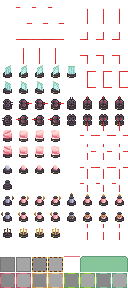
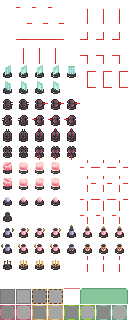
Render power light on enabled emitters, even when the simulation is not running

diff --git a/beam_time/src/assets.rs b/beam_time/src/assets.rs
@@ -74,7 +74,7 @@ define_refs! {
 
 pub fn animated_sprite(texture: SpriteRef, active: bool, frame: u8) -> Sprite {
     let offset = if active { frame + 1 } else { 0 } * 16;
-    Sprite::new(texture).uv_offset(Vector2::new(offset as u32, 0))
+    Sprite::new(texture).uv_offset(Vector2::new(offset as i32, 0))
 }
 
 pub fn init(assets: &mut AssetConstructor) {
@@ -93,31 +93,31 @@ pub fn init(assets: &mut AssetConstructor) {
     assets.register_sprite(interface, ABOUT_BUTTON, (40, 48), (31, 14));
 
     let tiles = assets.register_atlas(include_atlas!("tilemap.png"));
-    assets.register_sprite(tiles, TILE_PICKER_BACKGROUND_LEFT, (80, 256), (16, 16));
-    assets.register_sprite(tiles, TILE_PICKER_BACKGROUND_CENTER, (96, 256), (16, 16));
-    assets.register_sprite(tiles, TILE_PICKER_BACKGROUND_RIGHT, (112, 256), (16, 16));
+    assets.register_sprite(tiles, TILE_PICKER_BACKGROUND_LEFT, (80, 288), (16, 16));
+    assets.register_sprite(tiles, TILE_PICKER_BACKGROUND_CENTER, (96, 288), (16, 16));
+    assets.register_sprite(tiles, TILE_PICKER_BACKGROUND_RIGHT, (112, 288), (16, 16));
 
-    assets.register_sprite(tiles, EMPTY_TILE_A, (0, 256), (16, 16));
-    assets.register_sprite(tiles, EMPTY_TILE_B, (16, 256), (16, 16));
-    assets.register_sprite(tiles, PERMANENT_TILE_A, (32, 256), (16, 16));
-    assets.register_sprite(tiles, PERMANENT_TILE_B, (48, 256), (16, 16));
-    assets.register_sprite(tiles, OVERLAY_SELECTION, (64, 256), (16, 16));
+    assets.register_sprite(tiles, EMPTY_TILE_A, (0, 288), (16, 16));
+    assets.register_sprite(tiles, EMPTY_TILE_B, (16, 288), (16, 16));
+    assets.register_sprite(tiles, PERMANENT_TILE_A, (32, 288), (16, 16));
+    assets.register_sprite(tiles, PERMANENT_TILE_B, (48, 288), (16, 16));
+    assets.register_sprite(tiles, OVERLAY_SELECTION, (64, 288), (16, 16));
 
-    assets.register_sprite(tiles, TILE_WALL, (0, 176), (16, 16));
-    assets.register_sprite(tiles, TILE_DETECTOR, (0, 160), (16, 16));
-    assets.register_sprite(tiles, TILE_DELAY, (0, 224), (16, 16));
+    assets.register_sprite(tiles, TILE_WALL, (0, 208), (16, 16));
+    assets.register_sprite(tiles, TILE_DETECTOR, (0, 192), (16, 16));
+    assets.register_sprite(tiles, TILE_DELAY, (0, 256), (16, 16));
     assets.register_sprite(tiles, TILE_MIRROR_A, (0, 64), (16, 16));
     assets.register_sprite(tiles, TILE_MIRROR_B, (0, 80), (16, 16));
-    assets.register_sprite(tiles, TILE_SPLITTER_A, (0, 128), (16, 16));
-    assets.register_sprite(tiles, TILE_SPLITTER_B, (0, 144), (16, 16));
-    assets.register_sprite(tiles, TILE_GALVO_UP, (64, 192), (16, 16));
-    assets.register_sprite(tiles, TILE_GALVO_RIGHT, (0, 192), (16, 16));
-    assets.register_sprite(tiles, TILE_GALVO_DOWN, (64, 208), (16, 16));
-    assets.register_sprite(tiles, TILE_GALVO_LEFT, (0, 208), (16, 16));
-    assets.register_sprite(tiles, TILE_EMITTER_UP, (64, 96), (16, 16));
-    assets.register_sprite(tiles, TILE_EMITTER_DOWN, (64, 112), (16, 16));
-    assets.register_sprite(tiles, TILE_EMITTER_LEFT, (0, 112), (16, 16));
-    assets.register_sprite(tiles, TILE_EMITTER_RIGHT, (0, 96), (16, 16));
+    assets.register_sprite(tiles, TILE_SPLITTER_A, (0, 160), (16, 16));
+    assets.register_sprite(tiles, TILE_SPLITTER_B, (0, 176), (16, 16));
+    assets.register_sprite(tiles, TILE_GALVO_UP, (64, 224), (16, 16));
+    assets.register_sprite(tiles, TILE_GALVO_RIGHT, (0, 224), (16, 16));
+    assets.register_sprite(tiles, TILE_GALVO_DOWN, (64, 240), (16, 16));
+    assets.register_sprite(tiles, TILE_GALVO_LEFT, (0, 240), (16, 16));
+    assets.register_sprite(tiles, TILE_EMITTER_UP, (16, 128), (16, 16));
+    assets.register_sprite(tiles, TILE_EMITTER_DOWN, (16, 144), (16, 16));
+    assets.register_sprite(tiles, TILE_EMITTER_LEFT, (16, 112), (16, 16));
+    assets.register_sprite(tiles, TILE_EMITTER_RIGHT, (16, 96), (16, 16));
 
     assets.register_sprite(tiles, BEAM_FULL_HORIZONTAL, (16, 32), (16, 16));
     assets.register_sprite(tiles, BEAM_FULL_VERTICAL, (16, 48), (16, 16));
@@ -125,10 +125,10 @@ pub fn init(assets: &mut AssetConstructor) {
     assets.register_sprite(tiles, BEAM_REFLECT_DOWN_LEFT, (80, 48), (16, 16));
     assets.register_sprite(tiles, BEAM_REFLECT_UP_RIGHT, (80, 80), (16, 16));
     assets.register_sprite(tiles, BEAM_REFLECT_DOWN_RIGHT, (80, 64), (16, 16));
-    assets.register_sprite(tiles, BEAM_SPLIT_UP, (80, 128), (16, 16));
-    assets.register_sprite(tiles, BEAM_SPLIT_RIGHT, (80, 144), (16, 16));
-    assets.register_sprite(tiles, BEAM_SPLIT_DOWN, (80, 160), (16, 16));
-    assets.register_sprite(tiles, BEAM_SPLIT_LEFT, (80, 176), (16, 16));
+    assets.register_sprite(tiles, BEAM_SPLIT_UP, (80, 160), (16, 16));
+    assets.register_sprite(tiles, BEAM_SPLIT_RIGHT, (80, 176), (16, 16));
+    assets.register_sprite(tiles, BEAM_SPLIT_DOWN, (80, 192), (16, 16));
+    assets.register_sprite(tiles, BEAM_SPLIT_LEFT, (80, 208), (16, 16));
     assets.register_sprite(tiles, BEAM_HALF_UP, (80, 0), (16, 16));
     assets.register_sprite(tiles, BEAM_HALF_RIGHT, (16, 0), (16, 16));
     assets.register_sprite(tiles, BEAM_HALF_DOWN, (80, 16), (16, 16));

diff --git a/beam_time/src/game/holding.rs b/beam_time/src/game/holding.rs
@@ -1,5 +1,4 @@
 use engine::{
-    drawable::sprite::Sprite,
     exports::{
         nalgebra::Vector2,
         winit::{event::MouseButton, keyboard::KeyCode},
@@ -41,7 +40,7 @@ impl Holding {
                 }
 
                 ctx.draw(
-                    Sprite::new(tile.asset())
+                    tile.asset()
                         .scale(Vector2::repeat(shared.scale), Anchor::Center)
                         .position(ctx.input.mouse, Anchor::Center)
                         .z_index(layer::TILE_HOLDING),
@@ -62,7 +61,7 @@ impl Holding {
                     }
                 }
 
-                 if ctx.input.key_pressed(KeyCode::KeyH) {
+                if ctx.input.key_pressed(KeyCode::KeyH) {
                     for (pos, tile) in tiles.iter_mut() {
                         *pos = Vector2::new(-pos.x, pos.y);
                         *tile = tile.flip_horizontal();
@@ -73,7 +72,7 @@ impl Holding {
                 for (pos, tile) in tiles.iter() {
                     let render_pos = ctx.input.mouse + tile_size * pos.map(|x| x as f32);
                     ctx.draw(
-                        Sprite::new(tile.asset())
+                        tile.asset()
                             .scale(Vector2::repeat(shared.scale), Anchor::Center)
                             .position(render_pos, Anchor::Center)
                             .z_index(layer::TILE_HOLDING),

diff --git a/beam_time/src/game/tile.rs b/beam_time/src/game/tile.rs
@@ -1,4 +1,4 @@
-use engine::assets::SpriteRef;
+use engine::{drawable::sprite::Sprite, exports::nalgebra::Vector2};
 use serde::{Deserialize, Serialize};
 
 use crate::{
@@ -62,17 +62,22 @@ impl Tile {
         }
     }
 
-    pub fn asset(&self) -> SpriteRef {
-        match self {
+    pub fn asset(&self) -> Sprite {
+        let asset_ref = match self {
             Tile::Empty => unreachable!(),
             Tile::Detector => TILE_DETECTOR,
             Tile::Delay => TILE_DELAY,
-            Tile::Emitter { rotation, .. } => EMITTER[*rotation as usize],
+            Tile::Emitter { rotation, active } => {
+                return Sprite::new(EMITTER[*rotation as usize])
+                    .uv_offset(Vector2::new(-16 * *active as i32, 0));
+            }
             Tile::Mirror { rotation, .. } => MIRROR[*rotation as usize],
             Tile::Splitter { rotation, .. } => SPLITTER[*rotation as usize],
             Tile::Galvo { rotation, .. } => GALVO[*rotation as usize],
             Tile::Wall { .. } => TILE_WALL,
-        }
+        };
+
+        Sprite::new(asset_ref)
     }
 
     pub fn rotate(self) -> Self {

diff --git a/engine/src/assets/mod.rs b/engine/src/assets/mod.rs
@@ -46,10 +46,11 @@ pub struct FontAsset {
 }
 
 impl SpriteAsset {
-    pub(crate) fn uv(&self, offset: Vector2<u32>) -> (Vector2<f32>, Vector2<f32>) {
+    pub(crate) fn uv(&self, offset: Vector2<i32>) -> (Vector2<f32>, Vector2<f32>) {
         let size = self.texture.size.map(|x| x as f32);
 
-        let start = (self.uv + offset).map(|x| x as f32).component_div(&size);
+        let uv = self.uv.map(|x| x as i32);
+        let start = (uv + offset).map(|x| x as f32).component_div(&size);
         let end = start + self.size.map(|x| x as f32).component_div(&size);
 
         let offset = Vector2::repeat(f32::EPSILON);

diff --git a/engine/src/drawable/sprite.rs b/engine/src/drawable/sprite.rs
@@ -10,7 +10,7 @@ use crate::{
 #[derive(Debug)]
 pub struct Sprite {
     texture: SpriteRef,
-    uv_offset: Vector2<u32>,
+    uv_offset: Vector2<i32>,
 
     color: Rgb<f32>,
     z_index: i16,
@@ -91,7 +91,7 @@ impl Sprite {
         self
     }
 
-    pub fn uv_offset(mut self, offset: Vector2<u32>) -> Self {
+    pub fn uv_offset(mut self, offset: Vector2<i32>) -> Self {
         self.uv_offset = offset;
         self
     }

diff --git a/beam_time/src/game/board.rs b/beam_time/src/game/board.rs
@@ -197,7 +197,7 @@ impl Board {
                     let sprite = sim
                         .as_ref()
                         .and_then(|x| x.board.get(pos).base_sprite(frame))
-                        .unwrap_or_else(|| Sprite::new(tile.asset()));
+                        .unwrap_or_else(|| tile.asset());
 
                     let sprite = sprite
                         .scale(Vector2::repeat(shared.scale), Anchor::Center)

diff --git a/beam_time/src/game/beam/mod.rs b/beam_time/src/game/beam/mod.rs
@@ -135,7 +135,7 @@ impl BeamState {
 
             let sprite = |texture: SpriteRef| {
                 Sprite::new(texture)
-                    .uv_offset(Vector2::new(16 * frame, 0))
+                    .uv_offset(Vector2::new(16 * frame as i32, 0))
                     .scale(Vector2::repeat(shared.scale), Anchor::Center)
                     .position(render_pos, Anchor::Center)
             };

diff --git a/beam_time/src/ui/tile_picker.rs b/beam_time/src/ui/tile_picker.rs
@@ -64,7 +64,7 @@ impl TilePicker {
                 .scale(Vector2::repeat(4.0), Anchor::Center);
             ctx.draw(background);
 
-            let sprite = Sprite::new(asset)
+            let sprite = asset
                 .position(pos, Anchor::BottomLeft)
                 .scale(Vector2::repeat(4.0), Anchor::Center);
 

diff --git a/README.md b/README.md
@@ -8,3 +8,14 @@ I'm making a custom GPU accelerated game engine for this, because why not, so th
 Here is an example of an XOR gate implemented in game with some and, or, and nand gates.
 
 ![beam-time](https://github.com/user-attachments/assets/048c6ee1-29c8-436c-85b8-eac9329639c2)
+
+## Key Binds
+
+|Key|Action|
+|--|--|
+|<kbd>Q</kbd>|Copy hovered tile into cursor|
+|<kbd>E</kbd>|Toggle state of the hovered emitter|
+|<kbd>R</kbd>|Rotates the tile to selection in the cursor|
+|<kbd>V</kbd>|Flip vertically|
+|<kbd>H</kbd>|Flip horizontally|
+|<kbd></kbd>||

diff --git a/TODO.md b/TODO.md
@@ -61,4 +61,4 @@
 - [ ] Allow changing simulation speed
 - [x] Allow rotating copied selections
 - [ ] Fix simulation bug when two galvos are pointed at the same mirror
-- [ ] Render the little light pixel on active emitters
+- [x] Render the little light pixel on active emitters
